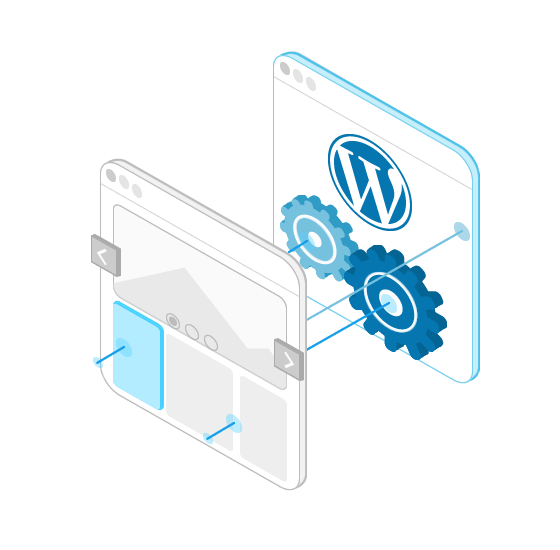
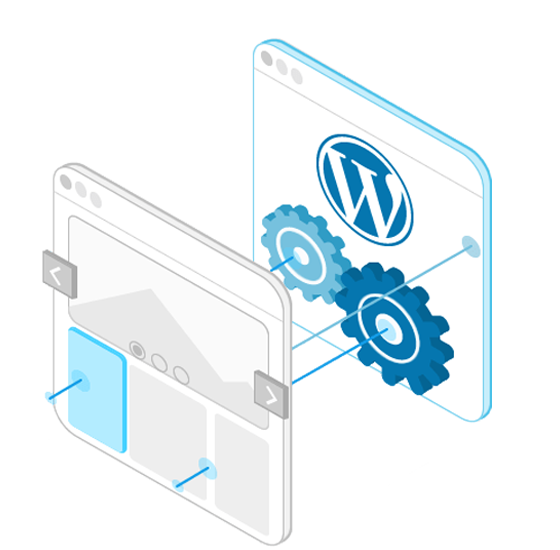
wp2

diff --git a/layouts/partials/services.html b/layouts/partials/services.html
@@ -60,10 +60,12 @@
                         <p>WordPress is my go-to content management system (CMS) for most projects that require easy to use tools for easy site maintenance.<br>A Wordpress website is easily scalable and you can add features like a shopping cart if you decide to start selling products with minimal effort. </p>
                     </div>
                     <div class="feature-screenshot-wrapper">
-                        <div class="feature-screenshot">
-                                <img src="/images/wordpress-design.png"
-                                alt="" class="screenshot-highlight items" />
-                        </div>
+                            <div class="feature-screenshot">
+                        <img src="/images/wordpress-design.png"
+                                srcset="/images/wordpress-design.png 500w, /images/wordpress-design.png 800w, /images/wordpress-design.png 1080w, /images/wordpress-design.png 1265w"
+                                sizes="(max-width: 479px) 87vw, (max-width: 767px) 83vw, (max-width: 991px) 370px, 500px"
+                                alt="" class="screenshot-highlight update" />
+                                </div>
                     </div>
                 </div><hr>
             </div>

diff --git a/static/css/main.css b/static/css/main.css
@@ -2448,20 +2448,11 @@ a {
   overflow: hidden;
   padding-top: 220px;
   padding-bottom: 220px;
-  background-image: -webkit-gradient(
-      linear,
-      left top,
-      left bottom,
-      from(#fff),
-      to(#f8f9fb)
-    ),
-    url(https://uploads-ssl.webflow.com/5bc1a0e9ac42917068d880da/5bc1a0e9ac42918e6cd880f6_architect.svg);
-  background-image: linear-gradient(180deg, #fff, #f8f9fb),
-    url(https://uploads-ssl.webflow.com/5bc1a0e9ac42917068d880da/5bc1a0e9ac42918e6cd880f6_architect.svg);
+  background-image: linear-gradient(180deg, #fff, #f4f8f8);
+
 }
 .section.features-section.on-features-page {
   overflow: visible;
-  padding-bottom: 0;
 }
 .footer-bottom-section {
   background: #1d154b;
